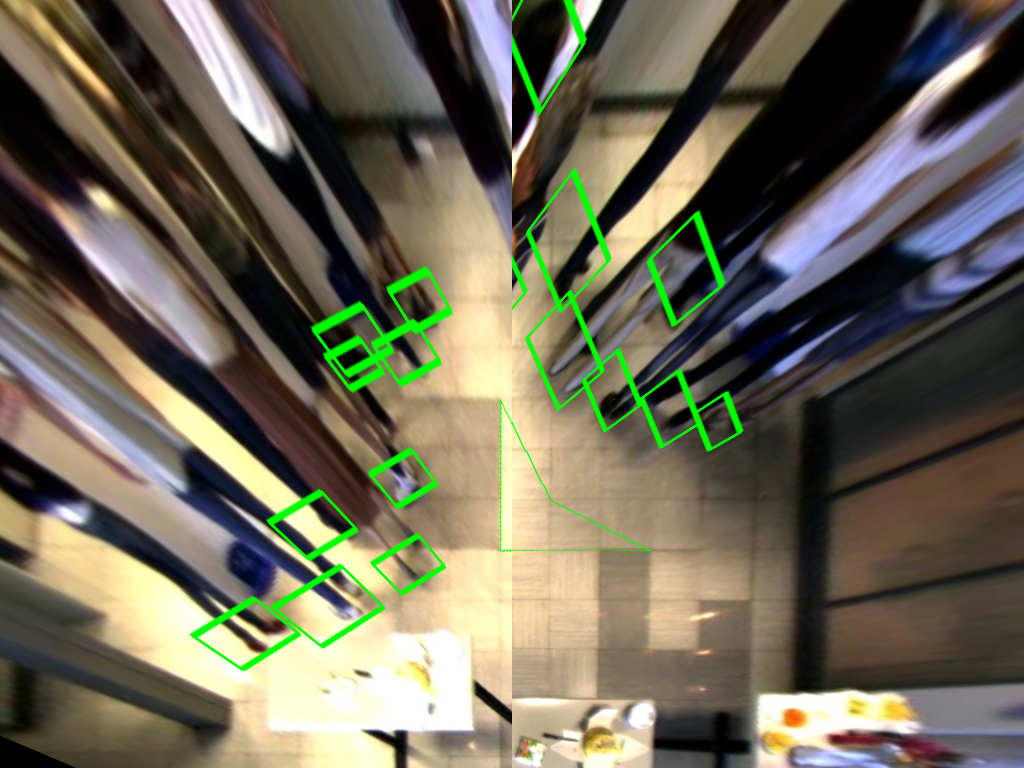
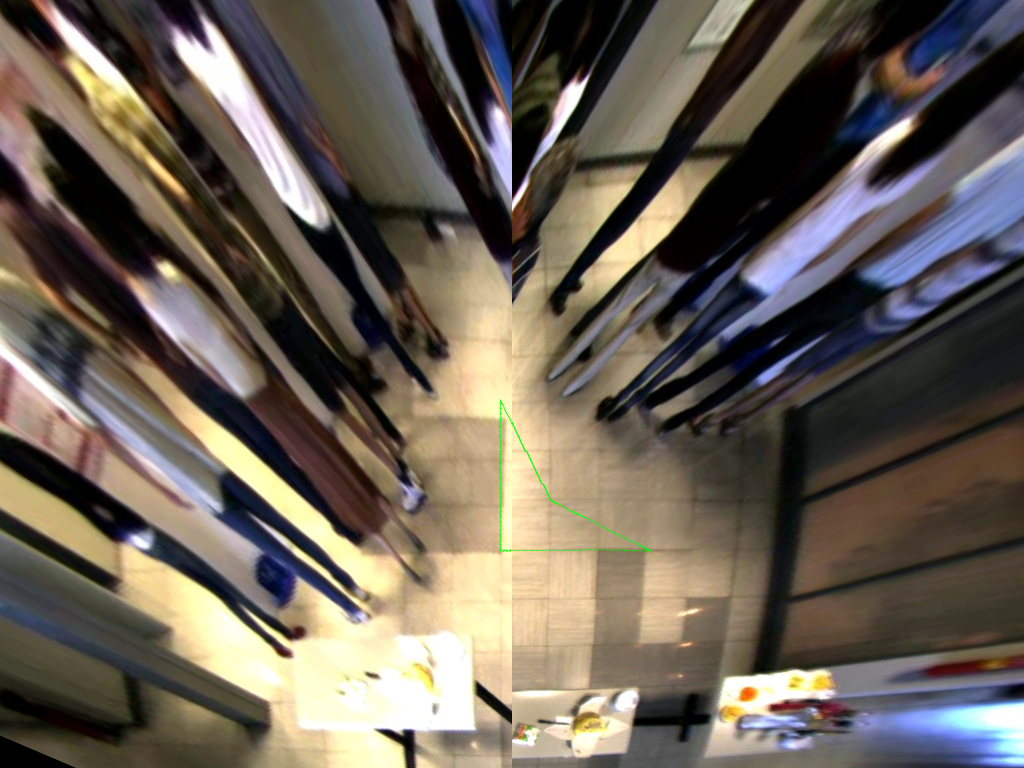
cleaned

diff --git a/homography/pipeline.py b/homography/pipeline.py
@@ -13,7 +13,26 @@ source_points = [pts_src1, pts_src2, pts_src3, pts_src4]
 pts_dst = np.array([[650, 550], [600, 550], [500, 550],[500, 400], [550, 500]]) #these are the zoomed out destination points
 
 def main():
-    frames = get_angles(200)
+    caps = [cv2.VideoCapture(f"video/salsa_ps_cam{i}.avi") for i in range(1, 5)]
+    homos = [cv2.findHomography(source_points[i], pts_dst)[0] for i in range(4)]
+    total_frames = int(caps[0].get(7))
+    interval = 30
+    for i in range(total_frames):
+        angles = [cap.read()[1] for cap in caps]
+        if i % interval == 0:
+            undis = []
+            for j in range(4):
+                with open(f"video/cam{j+1}.calib") as f:
+                    undis.append(undistort(angles[j], f))
+            for j, undis_img in enumerate(undis):
+                cv2.imwrite(f'out/undis{j}.png', undis_img)
+            boxes = [get_boxes(f'out/undis{j}.png', homos[j]) for j in range(4)]
+            outs = [cv2.warpPerspective(undis[j], homos[j], (undis[j].shape[1], undis[j].shape[0])) for j in range(4)]
+            outs = [cv2.polylines(outs[j], boxes[j], True, (0, 255, 0)) for j in range(4)]
+            cv2.imwrite(f"gif/stitched{i}.png", create_frame(outs))
+            print(f'FINISHED FRAME {i}/{total_frames}')
+
+def create_frame(frames):
     for i, frame in enumerate(frames):
         cv2.imwrite(f"out/frame{i}.png", frame)
     
@@ -25,35 +44,12 @@ def main():
     #result[:, :200] = frames[2][:, :200]
     #result[200:600, :512] = frames[2][200:600, :512]
 
-    cv2.imwrite("out/stitched.png", result)
+    return result
 
 def get_boxes(name, homo):
     boxes = bounding.get_boxes(name)
     transformed = np.array([cv2.perspectiveTransform(box.reshape(-1, 1, 2).astype(np.float32), homo) for box in boxes], dtype=int)
     return transformed
-
-def get_angles(frame_num):
-    frames = []
-    for i in range(4):
-        cap = cv2.VideoCapture(f"video/salsa_ps_cam{i+1}.avi")
-        j = 0
-        while cap.isOpened():
-            ret, frame = cap.read()
-            if j == frame_num:
-
-                with open(f"video/cam{i+1}.calib") as f:
-                    undis = undistort(frame, f)
-                    #undis = cv2.polylines(undis, [source_points[i]], True, (0, 255, 0)) #draws reference points for debugging purposes
-                    cv2.imwrite(f'out/undis{i}.png', undis)
-                    h, status = cv2.findHomography(source_points[i], pts_dst)
-                    boxes = get_boxes(f'out/undis{i}.png', h)
-                    im_out = cv2.warpPerspective(undis, h, (undis.shape[1], undis.shape[0]))
-                    im_out = cv2.polylines(im_out, boxes, True, (0, 255, 0))
-                    frames.append(im_out)
-                break
-            j += 1
-
-    return frames
 
 def undistort(img, fin):
     current_line = ""

diff --git a/homography/homography.py b/homography/homography.py
@@ -3,7 +3,7 @@ import os
 from glob import glob
 import numpy as np
 
-frames = [cv2.imread(f'bounded{i}.png') for i in range(1, 5)]
+frames = [cv2.imread(f'frame{i}.jpg') for i in range(1, 5)]
 
 pts_src1 = np.array([[614, 294], [581, 326],[503, 407], [313, 348], [478, 345]])
 pts_src2 = np.array([[250, 279], [324, 281],[472, 286], [440, 437], [383, 325]])
